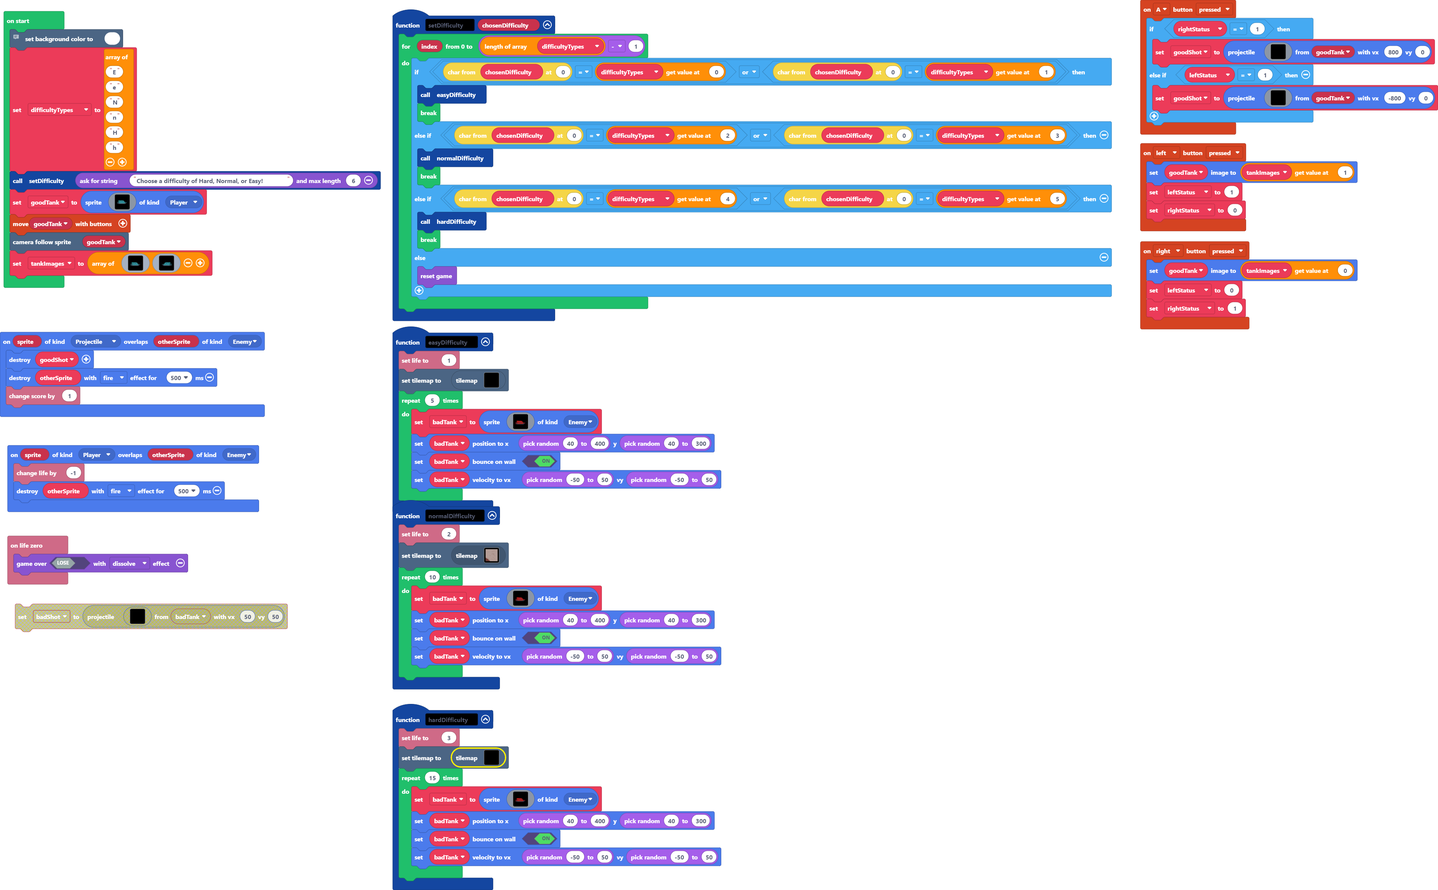
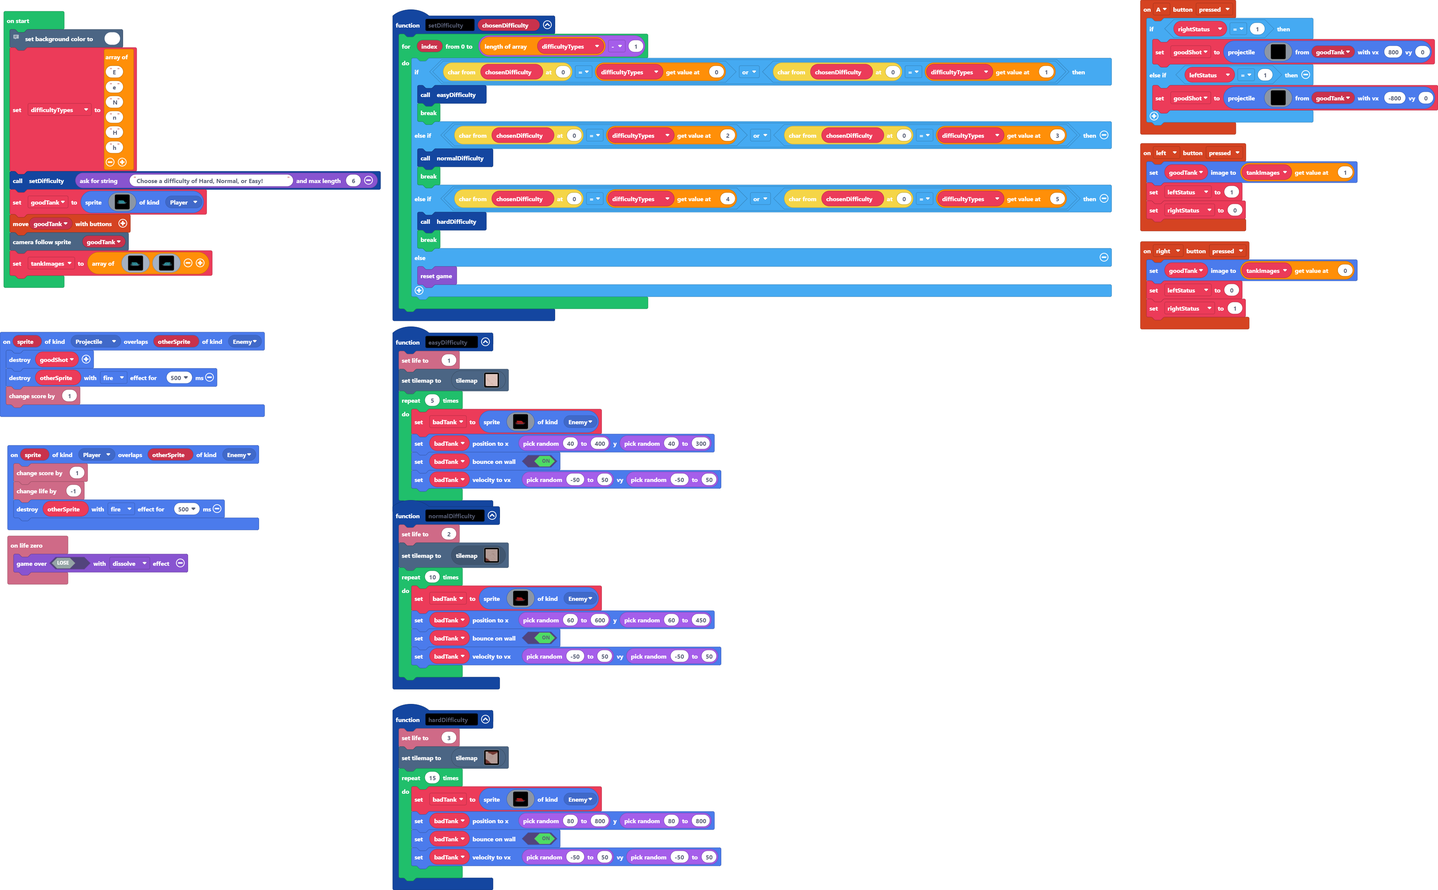
Update main.blocks, main.ts, tilemap.g.jres, tilemap.g.ts

Changed region(s): [[0.0, 0.5263, 0.1875, 0.6192], [0.0, 0.6811, 0.2188, 0.712], [0.3125, 0.8359, 0.3438, 0.8668]]

diff --git a/tilemap.g.ts b/tilemap.g.ts
@@ -18,6 +18,16 @@ namespace myTiles {
     export const tile6 = image.ofBuffer(hex``);
     //% fixedInstance jres blockIdentity=images._tile
     export const tile8 = image.ofBuffer(hex``);
+    //% fixedInstance jres blockIdentity=images._tile
+    export const tile9 = image.ofBuffer(hex``);
+    //% fixedInstance jres blockIdentity=images._tile
+    export const tile11 = image.ofBuffer(hex``);
+    //% fixedInstance jres blockIdentity=images._tile
+    export const tile12 = image.ofBuffer(hex``);
+    //% fixedInstance jres blockIdentity=images._tile
+    export const tile10 = image.ofBuffer(hex``);
+    //% fixedInstance jres blockIdentity=images._tile
+    export const tile13 = image.ofBuffer(hex``);
 
     helpers._registerFactory("tilemap", function(name: string) {
         switch(helpers.stringTrim(name)) {
@@ -1028,25 +1038,6 @@ namespace myTiles {
 . . . . . . . . . . . . . . . . 
 . . . . . . . . . . . . . . . . 
 `, [myTiles.transparency16], TileScale.Sixteen);
-            case "easyMap":
-            case "level55":return tiles.createTilemap(hex`1000100000000000000000000000000000000000000000000000000000000000000000000000000000000000000000000000000000000000000000000000000000000000000000000000000000000000000000000000000000000000000000000000000000000000000000000000000000000000000000000000000000000000000000000000000000000000000000000000000000000000000000000000000000000000000000000000000000000000000000000000000000000000000000000000000000000000000000000000000000000000000000000000000000000000000000000000000000000000000000000000000000000000000000000000000000000000`, img`
-. . . . . . . . . . . . . . . . 
-. . . . . . . . . . . . . . . . 
-. . . . . . . . . . . . . . . . 
-. . . . . . . . . . . . . . . . 
-. . . . . . . . . . . . . . . . 
-. . . . . . . . . . . . . . . . 
-. . . . . . . . . . . . . . . . 
-. . . . . . . . . . . . . . . . 
-. . . . . . . . . . . . . . . . 
-. . . . . . . . . . . . . . . . 
-. . . . . . . . . . . . . . . . 
-. . . . . . . . . . . . . . . . 
-. . . . . . . . . . . . . . . . 
-. . . . . . . . . . . . . . . . 
-. . . . . . . . . . . . . . . . 
-. . . . . . . . . . . . . . . . 
-`, [myTiles.transparency16], TileScale.Sixteen);
             case "normalMap":
             case "level1":return tiles.createTilemap(hex`30003000020202020202020202020202020202020202020202020202020202020202020202020202020202020202020202020202020101010101010101010101010101010101010101010101010101010101010101010101010101010101010101010102020101010101010101010101010101010101010101010101010101010101010101010101010101010101010101010102020101010101010101010101010101010101010101010101010101010101010101010101010101010101010101010102020101010101010101010101010101010101010101010101010101010101010101010101010101010101010101010102020101010101010101010101010101010101010101010101010101010101010101010303030301010101010101010102020101010101010101010101010101010101010101010101010101010101010303030303030301010101010101010102020101010101010101010101010101010101010101010101010101030303030303030303030301010101010101010102020101010101010101010101010101010101010101010101010303030303030303030303010101010101010101010102020101010101010101010101010101010101010101010101010303030303030303010101010101010101010101010102020101010101010101010101010101010101010101010101010303030301010101010101010101010101010101010102020101010101010101010103030303010101010101010101010101010101010101010101010101010101010101010102020101010101010101010103030303010101010101010101010101010101010101010101010101010101010101010102020101010101010101010103030303010101010101010101010101010101010101010101010101010101010101010102020101010101010101010101010101010101010101010101010101010101010101010101010101010101010101010102020101010101010101010101010101010101010101010101010101030303010101010101010101010101010101010102020101010101010101010101010101010101010101010101010101030303030301010101010101010101010101010102020101010101010101010101010101010101010101010101060101030603030603010601010101010101010101010102020101010101010101010101010101010101010101010101010101010303030303030101010101010101010101010102020101010101010101010101010101010101010101010101010101010103030303030101010101010101010101010102020101010101010101010101010101010101010101010101010101010101030303030101010101010101010101010102020101010101010101010101010101010101010101010101060101010601030603030601010101010101010101010102020101010101010101010101010101010101010101010101010101010101010303030303010101010101010101010102020101010101010101010101010101030303010101010101010101010101010103030303030101010101010101010102020101010101010101010101010101030303030301010101010101010101010101030303030101010101010101010102020101010101010101010101010101030303030303010101010101010101010101010303030301010101010101010102020101010101010101010101010101010303030303010101010101010101010101010303030303010101010101010102020101010101010101010101010101010101030303010101010101010101010101010103030303010101010101010102020101010101010101010101010101010101010101010101010101010101010101010101030303010101010101010102020101010101010101010101010101010101010101010101010101010101010101010101010101010101010101010102020101010101010101010101010101010101010101010101010101010303030101010101010101010101010101010102020101010101010101010101010101010101010101010101010101010303030301010101010101010101010101010102020101010101010101010101010101010101010101010101010101010303030303010101010101010101010101010102040101030303030101010101010101010101010101010101010101010103030303030101010101010101010101010102050401030303030303010101010101010101010101010101010101010101030303030301010101010101010101010102050504040303030303030303010101010101010101010101010101010101010303030303010101010101010101010102050505040403030303030303030301010101010101010101010101010101010103030303030101010101010101010102050505050504040303030303030301010101010101010103030301010101010101030303030101010101010101010102050505050505040404040303030301010101010101010103030303030101010101010303030301010101010101010102050505050505050505040403030301010101010101010103030303030301010101010303030303010101010101010102050505050505050505050403030303030301010101010101030303030301010101010103030303010101010101010102050505050505050505050504030303030301010101010101010103030301030303010101030303010101010101010102050505050505050505050505040303030301010101010101010101010101030303010101010101010101010101010102050505050505050505050505050404030301010101010101010101010101030303010101010101010101010101010102050505050505050505050505050504040301010101010101010101010101010101010101010101010101010101010102050505050505050505050505050505040303010101010101010101010101010101010101010101010101010101010102050505050505050505050505050505050404010101010101010101010101010101010101010101010101010101010102050505050505050505050505050505050504020202020202020202020202020202020202020202020202020202020202`, img`
 222222222222222222222222222222222222222222222222
@@ -1098,25 +1089,108 @@ namespace myTiles {
 2..............................................2
 222222222222222222222222222222222222222222222222
 `, [myTiles.transparency16,myTiles.tile1,myTiles.tile2,myTiles.tile3,myTiles.tile4,myTiles.tile5,myTiles.tile6], TileScale.Sixteen);
+            case "easyMap":
+            case "level55":return tiles.createTilemap(hex`2000200002020202020202020202020202020202020202020202020202020202020202020201010101010101010101010101010101010101010101010101010101010102020101010101010101010101010101010101010101010101010101010101010202010101010101010101010101010101010101010101010101010101010101020201010101010101010101010101010101010101010101010101010101010102020101010101010101010101010101010101010101010101010101010101010202010101010101010101010101010101010101010101010101010101010101020201010101010101010101010101010103030101010101010101010101010102020101010101010101010101010101010101030301010101010101010101010202010301010101010101010101010101010101010303030101010101010101020201030301010101010101010101010101010101010103010101010101010102020103030303030101010101010101010301010101010103030101010101010202010103030303010101010101010101030101010101010101010301010101020201010303030301010101010101010101030101010101010101030101010102020101030303030303010101010101010101030101010101010103010101010202010103030303030301010101010101010101030301010101010103030101020201010101030303030101010101010101010101010301010101010103010102020101010103030303030301010101010101010101030101010101010101010202010101010101010303030301010101010101010101010101010101010101020201010101010101030303030101010101010101010101010101010101010102020101010101010101030303010101010101010101010101010101010101010202010101010101010101010303010101010101010101010101010101010101020201010101010101010101010103010101010101010101010101010101010102020101010101010101010101010103030303030101010101010101010101010202010101010101010101010103030303030303010101010101010101010101020201010101010101010101010101030303030301010101010101010101010102020101010101010101010101010103030303030101010101010101010101010202010101010101010101010101010101010303030301010101010101010101020201010101010101010101010101010101010303030101010101010101010102040101010101010101010101010101010101010303010101010101010101010205040101010101010101010101010101010101010301010101010101010101020505040202020202020202020202020202020202020202020202020202020202`, img`
+22222222222222222222222222222222
+2..............................2
+2..............................2
+2..............................2
+2..............................2
+2..............................2
+2..............................2
+2..............................2
+2..............................2
+2..............................2
+2..............................2
+2..............................2
+2..............................2
+2..............................2
+2..............................2
+2..............................2
+2..............................2
+2..............................2
+2..............................2
+2..............................2
+2..............................2
+2..............................2
+2..............................2
+2..............................2
+2..............................2
+2..............................2
+2..............................2
+2..............................2
+2..............................2
+2..............................2
+2..............................2
+22222222222222222222222222222222
+`, [myTiles.transparency16,myTiles.tile1,myTiles.tile2,myTiles.tile3,myTiles.tile4,myTiles.tile5], TileScale.Sixteen);
             case "hardMap":
-            case "level56":return tiles.createTilemap(hex`1000100000000000000000000000000000000000000000000000000000000000000000000000000000000000000000000000000000000000000000000000000000000000000000000000000000000000000000000000000000000000000000000000000000000000000000000000000000000000000000000000000000000000000000000000000000000000000000000000000000000000000000000000000000000000000000000000000000000000000000000000000000000000000000000000000000000000000000000000000000000000000000000000000000000000000000000000000000000000000000000000000000000000000000000000000000000000`, img`
-. . . . . . . . . . . . . . . . 
-. . . . . . . . . . . . . . . . 
-. . . . . . . . . . . . . . . . 
-. . . . . . . . . . . . . . . . 
-. . . . . . . . . . . . . . . . 
-. . . . . . . . . . . . . . . . 
-. . . . . . . . . . . . . . . . 
-. . . . . . . . . . . . . . . . 
-. . . . . . . . . . . . . . . . 
-. . . . . . . . . . . . . . . . 
-. . . . . . . . . . . . . . . . 
-. . . . . . . . . . . . . . . . 
-. . . . . . . . . . . . . . . . 
-. . . . . . . . . . . . . . . . 
-. . . . . . . . . . . . . . . . 
-. . . . . . . . . . . . . . . . 
-`, [myTiles.transparency16], TileScale.Sixteen);
+            case "level56":return tiles.createTilemap(hex`4000400001010101010101010101010107030303030303030303030303030303030303030303030303030303030303030303030303030303030303030303030303030303010101010101010101010101010703030303030303030303030303030303030303030303030303030303030303030303030303030303030303030303030303030101010101010101010101010107030303030303030303030303030303030303030303030303030303030303030303030303030303030303030303030303030301010101010101010101010101070303030303030303030303030303030303030303030303030303030303030303030303030303030303030303030303030303010101010101010101010101010107030303030303030303030303030303030303030303030303030303030303030303030303030303030303030303030303030101010101010101010101010101070303030303030303030303030303030303030303030303030303030303030303030303030303030303030303030303030301010101010101010101010101010703030303030303030303030303030303030303030303030303030303030303030303030303030303030303030303030404010101010101010101010101010107030303030303030303030303030303030303030303030303030303030303030303030303030303030303030303040601010101010101010101010101010101010704040303030303030303030303030303030303030303030303030303030303030303030303030303030304060101010101010101010101010101010101010101010107040407030303030303030303030303030303030303030303030303030303030303030303030406010101010101010101010101010101010101010101010101010101010704040703030303030303030303030303030303030303030303030303030303030601010101010101010101010101010101010101010101010101010101010101010101070403030303030303030303030303030303030303030303030303040601010101010101010101010101010101010101010101010101010101010101010101010101070403030303030303030303030303030303030303030304060101010101010101010101010101010101010101010101010101010101010101010101010101010101070303030303030303030303030303030303030406010101010101010101010101010101010101010101010101010101010101010101010101010101010101010704020703030303030303030303030303040601010101010101010101010101010101010101010101010101010101010101010101010101010101010101010101010702070303030303030303030304060101010101010101010101010101010101010101010101010101010101010101010101010101010101010101010101010101070203030303030303040406010101010101010101010101010101010101010101010101010101010101010101010101010101010101010101010101010101010107040404040404060101010101010101010101010101010101010101010101010101010101010101010101010101010101010101010101010101010101010101010101010101010101010101010101010101010101010101010101010101010101010101010101010101010101010101010101010101010101010101010101010101010101010101010101010101010101010101010101010101010101010101010101010101010101010101010101010101010101010101010101010101010101010101010101010101010101010101010101010101010101010101010101010101010101010101010101010101010101010101010101010101010101010101010101010101010101010101010101010101010101010101010101010101010101010101010101010101010101010101010101010101010101010101010101010101010101010101010101010101010101010101010101010101010101010101010101010101010101010101010101010101010101010101010101010101010101010101010101010101010101010101010101010101010101010101010101010101010101010101010101010101010101010108010101010108010101010108010101010801010101010101010101010101010101010101010101010101010101010101010101010101010101010101010101050101010101050101010101050101010105010101010101010101010101010101010101010101010101010101010101010101010101010101010101010101010101010101010101010101010101010101010101010101010101010101010101010101010101010101010101010101010101010101010101010101010101010101010101010101010101010101010101010101010101010101010101010101010101010101010101010101010101010101010101010101010101010101010101080101010101080101010101080101010108010101010101010101010101010101010101010101010101010101010101010101010101010101010101010101010501010101010501010101010501010101050101010101010101010101010101010101010101010101010101010101010101010101010101010101010101010101010101010101010101010101010101010101010101010101010101010101010101010101010101010101010101010101010101010101010101010101010101010101010101010101010101010101010101010101010101010101010101010101010101010101010101010101010101010101010101010101010101010101010801010101010801010101010801010101080101010101010101010101010101010101010101010101010101010101010101010101010101010101010101010105010101010105010101010105010101010501010101010101010101010101010101010101010101010101010101010101010101010101010101010101010101010101010101010101010101010101010101010101010101010101010101010101010101010101010101010101010101010101010101010101010101010101010101010101010101010101010101010101010101010101010101010101010101010101010101010101010101010101010101010101010101010101010101010101010101010101010101010101010101010101010101010101010101010101010101010101010101010101010101010101010101010101010101010101010101080101010101080101010101080101010101010101010101010101010101010101010101010101010101010101010101010101010101010101010101010101010501010101010501010101010501010101010101010101010101010101010101010101010101010101010101010101010101010101010101010101010101010101010101010101010101010101010101010101010101010101010101010101010101010101010101010101020201010101010101010101010101010101010101010101010101010101010101010101010101010101010101010101010101010101010101010101010101010303020201010101010101010101010101010101010101010101010101010101010101010101010101010101010101010101010101010101010101010101010103030303020101010101010101010101010101010101010101010101010101010101010101010101010101010101010101010101010101010101010101010101030303030202020202010101010101010101010101010101010101010101010101010101010101010101010101010101010101010101010101010101010101010303030303030303020101010101010101010101010101010101010101010101010101010101010101010101010101010101010101010101010101010101010103030303030303030302010101010101010101010101010101010101010101010101010101010101010101010101010101010101010101010101010101010101030303030303030303030201010101010101010101010101010101010101010101010101010101010101010101010101010101010101010101010101010101010303030303030303030303020201010101010101010101010101010101010101010101010101010101010101010101010101010101010101010101010101010103030303030303030303030302020101010101010101010101010101010101010101010101010101010101010101010101010101010101010101010101010101030303030303030303030303030302010101010101010101010101010101010101010101010101010101010101010101010101010101010101010101010101010303030303030303030303030303030202010101010101010101010101010101010101010101010101010101010101010101010101010101010101010101010103030303030303030303030303030303030202020101010101010101010101010101010101010101010101010101010101010101010101010101010101010101030303030303030303030303030303030303030302010101010101010101010101010101010101010101010101010101010101010101010101010101010101010303030303030303030303030303030303030303020101010101010101010101010101010101010101010101010101010101010101010101010101010101010103030303030303030303030303030303030303030201010101010101010101010101010101010101010101010101010101010101010101010101010101010101030303030303030303030303030303030303030201010101010101010101010101010101010101010101010101010101010101010101010101010101010101010303030303030303030303030303030303030303020201010101010101010101010101010101010101010101010101010101010101010101010101010101010103030303030303030303030303030303030303030302020101010101010101010101010101010101010101010101010101010101010101010101010101010101030303030303030303030303030303030303030303030302020101010101010101010101010101010101010101010101010101010101010101010101010101010303030303030303030303030303030303030303030303030201010101010101010101010101010101010101010101010101010101010101010101010101010103030303030303030303030303030303030303030303030303020201010101010101010101010101010101010101010101010101010101010101010101010101030303030303030303030303030303030303030303030303030303020201010101010101010101010101010101010101010101010101010101010101010101010303030303030303030303030303030303030303030303030303030302010101010101010101010101010101010101010101010101010101010101010101010103030303030303030303030303030303030303030303030303030303030202010101010101010101010101010101010101010101010101010101010101010101`, img`
+2222222222222222222222222222222222222222222222222222222222222222
+2..............................................................2
+2..............................................................2
+2..............................................................2
+2..............................................................2
+2..............................................................2
+2..............................................................2
+2..............................................................2
+2..............................................................2
+2..............................................................2
+2..............................................................2
+2..............................................................2
+2..............................................................2
+2..............................................................2
+2..............................................................2
+2..............................................................2
+2..............................................................2
+2..............................................................2
+2..............................................................2
+2..............................................................2
+2..............................................................2
+2..............................................................2
+2..............................................................2
+2..............................................................2
+2....................2.....2.....2....2........................2
+2....................2.....2.....2....2........................2
+2..............................................................2
+2..............................................................2
+2....................2.....2.....2....2........................2
+2....................2.....2.....2....2........................2
+2..............................................................2
+2..............................................................2
+2....................2.....2.....2....2........................2
+2....................2.....2.....2....2........................2
+2..............................................................2
+2..............................................................2
+2..............................................................2
+2....................2.....2.....2.............................2
+2....................2.....2.....2.............................2
+2..............................................................2
+2..............................................................2
+2..............................................................2
+2..............................................................2
+2..............................................................2
+2..............................................................2
+2..............................................................2
+2..............................................................2
+2..............................................................2
+2..............................................................2
+2..............................................................2
+2..............................................................2
+2..............................................................2
+2..............................................................2
+2..............................................................2
+2..............................................................2
+2..............................................................2
+2..............................................................2
+2..............................................................2
+2..............................................................2
+2..............................................................2
+2..............................................................2
+2..............................................................2
+2..............................................................2
+2222222222222222222222222222222222222222222222222222222222222222
+`, [myTiles.transparency16,myTiles.tile1,myTiles.tile4,myTiles.tile5,myTiles.tile9,myTiles.tile6,myTiles.tile10,myTiles.tile12,myTiles.tile13], TileScale.Sixteen);
         }
         return null;
     })
@@ -1140,6 +1214,16 @@ namespace myTiles {
             case "tile6":return tile6;
             case "myTile1":
             case "tile8":return tile8;
+            case "bottom dirt":
+            case "tile9":return tile9;
+            case "myTile2":
+            case "tile11":return tile11;
+            case "topRightDirt":
+            case "tile12":return tile12;
+            case "topLeftDirt":
+            case "tile10":return tile10;
+            case "buildingTop":
+            case "tile13":return tile13;
         }
         return null;
     })

diff --git a/main.ts b/main.ts
@@ -3,7 +3,7 @@ function hardDifficulty () {
     tiles.setCurrentTilemap(tilemap`hardMap`)
     for (let index = 0; index < 15; index++) {
         badTank = sprites.create(assets.image`badTankRIght`, SpriteKind.Enemy)
-        badTank.setPosition(randint(40, 400), randint(40, 300))
+        badTank.setPosition(randint(80, 800), randint(80, 800))
         badTank.setBounceOnWall(true)
         badTank.setVelocity(randint(-50, 50), randint(-50, 50))
     }
@@ -80,7 +80,7 @@ function normalDifficulty () {
     tiles.setCurrentTilemap(tilemap`normalMap`)
     for (let index = 0; index < 10; index++) {
         badTank = sprites.create(assets.image`badTankRIght`, SpriteKind.Enemy)
-        badTank.setPosition(randint(40, 400), randint(40, 300))
+        badTank.setPosition(randint(60, 600), randint(60, 450))
         badTank.setBounceOnWall(true)
         badTank.setVelocity(randint(-50, 50), randint(-50, 50))
     }
@@ -104,6 +104,7 @@ sprites.onOverlap(SpriteKind.Projectile, SpriteKind.Enemy, function (sprite, oth
     info.changeScoreBy(1)
 })
 sprites.onOverlap(SpriteKind.Player, SpriteKind.Enemy, function (sprite, otherSprite) {
+    info.changeScoreBy(1)
     info.changeLifeBy(-1)
     otherSprite.destroy(effects.fire, 500)
 })
